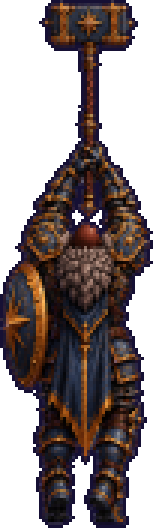
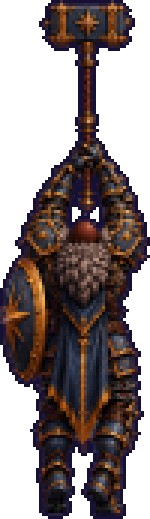
v234: escala das poses do Tanque
Claude-Session: https://claude.ai/code/session_01YFC38PcyDKAfPNhJ7r1cKG

diff --git a/sw.js b/sw.js
@@ -1,4 +1,4 @@
-const CACHE='bd1-rpg-v233';
+const CACHE='bd1-rpg-v234';
 const ASSETS=['./','./index.html','./game.html','./lobby.js','./bag_panel2.png','./shop_sign.png','./bag_button.png','./menu_meta.js','./menu_assassin.png','./menu_mage.png','./menu_knight.png','./menu_tank.png','./menu_elem.png','./menu_elemdef.png', './icon_chip_flame.png','./ui_cs_blue.png','./ui_cs_purple.png','./ui_cs_grey.png','./ui_cs_green.png','./ui_cs_red.png','./ui_cs_gold.png','./ui_chip_blue.png','./icon_chip_hourglass.png','./icon_chip_hourglass_red.png', './icon_chip_sword.png', './icon_chip_demon.png', './icon_chip_normal.png', './icon_chip_elem.png', './menu_target.png','./ui_box.png','./ui_chip.png','./ui_chip_hi.png','./ui_chip_red.png','./tp_mage.png','./tp_knight.png','./tp_tank.png','./tp_assassin.png','./lobby.css','./select_plate.webp','./tip_frame.png','./enter_panel.png','./enter_btn.png','./enter_btn_on.png','./enter_btn_off.png','./pick_btn_on.png','./pick_btn_off.png','./char_mage.webp','./char_knight.webp','./char_tank.webp','./char_assassin.webp','./panel_mage.webp','./panel_knight.webp','./panel_tank.webp','./panel_assassin.webp','./style.css','./app.js','./anim.js','./mage.js','./cleric.js','./tank.js','./knight.js','./boss.js','./boss/meta.json','./boss/B_1.png','./boss/B_2.png','./boss/B_3.png','./boss/B_4.png','./boss/B_5.png','./boss/B_6.png','./boss/B_7.png','./boss/B_8.png','./boss/B_9.png','./boss/B_10.png','./boss/B_11.png','./boss/B_12.png','./boss/goblin.png','./fxsoft.js','./ambient.js','./paper.js','./fonts/openc.woff2','./fonts/opencl.woff2','./fonts/opend.woff2','./fonts/pixelify-sans-latin-500-normal.woff2','./fonts/pixelify-sans-latin-700-normal.woff2','./knight/K1_1.png','./knight/K1_10.png','./knight/K1_11.png','./knight/K1_13.png','./knight/K1_14.png','./knight/K1_15.png','./knight/K1_19.png','./knight/K1_2.png','./knight/K1_20.png','./knight/K1_21.png','./knight/K1_22.png','./knight/K1_23.png','./knight/K1_24.png','./knight/K1_25.png','./knight/K1_26.png','./knight/K1_27.png','./knight/K1_28.png','./knight/K1_29.png','./knight/K1_30.png','./knight/K1_31.png','./knight/K1_32.png','./knight/K1_35.png','./knight/K1_37.png','./knight/K1_4.png','./knight/K1_41.png','./knight/K1_42.png','./knight/K1_44.png','./knight/K1_45.png','./knight/K1_46.png','./knight/K1_49.png','./knight/K1_5.png','./knight/K1_6.png','./knight/K1_7.png','./knight/K1_8.png','./knight/K1_9.png','./knight/K2_10.png','./knight/K2_11.png','./knight/K2_13.png','./knight/K2_14.png','./knight/K2_15.png','./knight/K2_16.png','./knight/K2_17.png','./knight/K2_18.png','./knight/K2_19.png','./knight/K2_2.png','./knight/K2_20.png','./knight/K2_21.png','./knight/K2_22.png','./knight/K2_23.png','./knight/K2_24.png','./knight/K2_25.png','./knight/K2_26.png','./knight/K2_28.png','./knight/K2_29.png','./knight/K2_3.png','./knight/K2_30.png','./knight/K2_32.png','./knight/K2_33.png','./knight/K2_34.png','./knight/K2_35.png','./knight/K2_37.png','./knight/K2_38.png','./knight/K2_39.png','./knight/K2_4.png','./knight/K2_41.png','./knight/K2_42.png','./knight/K2_43.png','./knight/K2_44.png','./knight/K2_45.png','./knight/K2_46.png','./knight/K2_5.png','./knight/K2_6.png','./knight/K2_7.png','./knight/K2_8.png','./knight/K2_9.png','./knight/K3_1.png','./knight/K3_10.png','./knight/K3_11.png','./knight/K3_12.png','./knight/K3_13.png','./knight/K3_14.png','./knight/K3_15.png','./knight/K3_16.png','./knight/K3_17.png','./knight/K3_18.png','./knight/K3_2.png','./knight/K3_20.png','./knight/K3_21.png','./knight/K3_22.png','./knight/K3_23.png','./knight/K3_24.png','./knight/K3_25.png','./knight/K3_26.png','./knight/K3_27.png','./knight/K3_28.png','./knight/K3_29.png','./knight/K3_3.png','./knight/K3_30.png','./knight/K3_31.png','./knight/K3_32.png','./knight/K3_33.png','./knight/K3_34.png','./knight/K3_35.png','./knight/K3_36.png','./knight/K3_37.png','./knight/K3_38.png','./knight/K3_39.png','./knight/K3_4.png','./knight/K3_40.png','./knight/K3_41.png','./knight/K3_42.png','./knight/K3_43.png','./knight/K3_44.png','./knight/K3_45.png','./knight/K3_46.png','./knight/K3_47.png','./knight/K3_48.png','./knight/K3_5.png','./knight/K3_6.png','./knight/K3_7.png','./knight/K3_8.png','./knight/K3_9.png','./knight/fx_ice.png','./knight/fx_rocksA.png','./knight/fx_rock1.png','./knight/fx_rock2.png','./knight/fx_rock3.png','./knight/fx_rock4.png','./knight/fx_slash.png','./knight/meta.json','./clr/at1.png','./clr/at2.png','./clr/at3.png','./clr/bg1.png','./clr/bg2.png','./clr/bg3.png','./clr/bg4.png','./clr/bp1.png','./clr/bp2.png','./clr/bp3.png','./clr/br1.png','./clr/br2.png','./clr/br3.png','./clr/br4.png','./clr/br5.png','./clr/br6.png','./clr/bt1.png','./clr/bt2.png','./clr/bt3.png','./clr/bt4.png','./clr/d1.png','./clr/d2.png','./clr/d3.png','./clr/d4.png','./clr/dg1.png','./clr/dg2.png','./clr/dg3.png','./clr/dn1.png','./clr/dn2.png','./clr/dn3.png','./clr/ds1.png','./clr/ex1.png','./clr/fx_aura.png','./clr/fx_burst.png','./clr/fx_cross1.png','./clr/fx_lotus.png','./clr/fx_pillar.png','./clr/fx_pillar2.png','./clr/fx_ring1.png','./clr/fx_ring2.png','./clr/fx_ring3.png','./clr/fx_star1.png','./clr/fx_star2.png','./clr/fx_star3.png','./clr/fx_star4.png','./clr/fx_streak1.png','./clr/fx_streak2.png','./clr/fx_streak3.png','./clr/fx_sunstar.png','./clr/hat1.png','./clr/hat2.png','./clr/idle1.png','./clr/meta.json','./clr/pr1.png','./clr/pr2.png','./clr/stf.png','./clr/ult1.png','./clr/ult2.png','./clr/v1.png','./clr/v2.png','./mage3/air.png','./mage4/air.png','./mage4/atk1.png','./mage4/atk2.png','./mage4/atk3.png','./mage4/bh1.png','./mage4/bh2.png','./mage4/castdef.png','./mage4/defair.png','./mage4/defearth.png','./mage4/deffire.png','./mage4/defmana.png','./mage4/defwater.png','./mage4/dodge1.png','./mage4/dodge2.png','./mage4/dodge3.png','./mage4/dodge4.png','./mage4/dodge5.png','./mage4/dodge6.png','./mage4/down.png','./mage4/earth.png','./mage4/fall.png','./mage4/fire.png','./mage4/fx_air_burst.png','./mage4/fx_air_swirl.png','./mage4/fx_bh_big.png','./mage4/fx_bh_big2.png','./mage4/fx_bh_seed.png','./mage4/fx_bh_small.png','./mage4/fx_bh_smoke.png','./mage4/fx_bh_spikes.png','./mage4/fx_bolt.png','./mage4/fx_comet.png','./mage4/fx_cross.png','./mage4/fx_crystal.png','./mage4/fx_earth_spikes.png','./mage4/fx_fire_burst.png','./mage4/fx_fire_fall.png','./mage4/fx_mana_aura.png','./mage4/fx_orb_blue.png','./mage4/fx_orb_orange.png','./mage4/fx_orb_red.png','./mage4/fx_orbb.png','./mage4/fx_ring_floor.png','./mage4/fx_rock.png','./mage4/fx_rocks.png','./mage4/fx_sh_air.png','./mage4/fx_sh_earth.png','./mage4/fx_sh_fire.png','./mage4/fx_sh_mana.png','./mage4/fx_sh_water.png','./mage4/fx_star_big.png','./mage4/fx_star_small.png','./mage4/fx_water_burst.png','./mage4/fx_water_pillar.png','./mage4/fx_whirl.png','./mage4/glance.png','./mage4/hip.png','./mage4/hurt1.png','./mage4/hurt2.png','./mage4/idle1.png','./mage4/idle2.png','./mage4/idle3.png','./mage4/idle4.png','./mage4/kneel.png','./mage4/look.png','./mage4/meta.json','./mage4/open.png','./mage4/potion.png','./mage4/raise.png','./mage4/reach.png','./mage4/scroll.png','./mage4/side.png','./mage4/skirt.png','./mage4/spin1.png','./mage4/spinwide.png','./mage4/stars.png','./mage4/swingf.png','./mage4/swingl.png','./mage4/swingr.png','./mage4/water.png','./mage4/wave.png','./mage3/atk1.png','./mage3/atk2.png','./mage3/atk3.png','./mage3/bh1.png','./mage3/bh2.png','./mage3/castdef.png','./mage3/defair.png','./mage3/defearth.png','./mage3/deffire.png','./mage3/defmana.png','./mage3/defwater.png','./mage3/dodge1.png','./mage3/dodge2.png','./mage3/dodge3.png','./mage3/dodge4.png','./mage3/earth.png','./mage3/fire.png','./mage3/fx_air_swirl.png','./mage3/fx_bh_big.png','./mage3/fx_bh_big2.png','./mage3/fx_bh_small.png','./mage3/fx_bh_spikes.png','./mage3/fx_bolt.png','./mage3/fx_comet.png','./mage3/fx_cross.png','./mage3/fx_crystal.png','./mage3/fx_earth_spikes.png','./mage3/fx_fire_fall.png','./mage3/fx_mana_aura.png','./mage3/fx_orb_blue.png','./mage3/fx_orb_orange.png','./mage3/fx_orb_red.png','./mage3/fx_orbb.png','./mage3/fx_ring_floor.png','./mage3/fx_rock.png','./mage3/fx_rocks.png','./mage3/fx_star_big.png','./mage3/fx_star_small.png','./mage3/fx_water_pillar.png','./mage3/fx_whirl.png','./mage3/idle1.png','./mage3/idle2.png','./mage3/idle3.png','./mage3/idle4.png','./mage3/meta.json','./mage3/spin1.png','./mage3/spinwide.png','./mage3/stars.png','./mage3/swingf.png','./mage3/swingl.png','./mage3/swingr.png','./mage3/water.png','./anim/manifest.json','./spr_mage.webp','./spr_knight.webp','./spr_tank.webp','./spr_assassin.webp','./spr_boss.webp','./skel/skel_face.png','./intro.js','./map.html','./fog.css','./fog.js','./fog/top.webp','./fog/bot.webp','./map.css','./map.js','./quotes.js','./hud.js','./map/ui_title.webp','./map/ui_compass.webp','./map/ui_legend.webp','./map/ui_quote.webp','./mapfx.js','./map/water.png','./map/base.webp','./map/meta.json','./map/ic_done.webp','./map/ic_next.webp','./map/ic_lock.webp','./map/halo0_blue.webp','./map/halo1_green.webp','./map/gray0.webp','./map/gray1.webp','./map/gray2.webp','./map/gray3.webp','./map/gray4.webp','./map/gray5.webp','./intro/throne_close.webp','./intro/throne_far.webp','./game_clean.png','./game_nohud.png','./hud_mage.png','./hud_knight.png','./hud_tank.png','./hud_assassin.png','./question_panel.png','./icon_coin.png','./manifest.webmanifest','./potion_hp.png','./potion_hp_s.png','./potion_hp_l.png','./potion_mana_s.png','./potion_mana_l.png','./potion_mana.png','./btn_wood.png','./btn_dark.png','./btn_gold.png','./editor.html','./perguntas.json','./chest_f0.png','./chest_f1.png','./chest_f2.png','./chest_f3.png','./item_amulet.png','./item_blade.png','./item_dice.png','./item_elixir.png','./item_helm.png','./item_herb.png','./item_hourglass.png','./item_iron_shield.png','./item_lens.png','./item_lightbomb.png','./item_luckycoin.png','./item_phoenix.png','./item_powder.png','./cover.html','./cover.css','./cover.js','./rebuild.js','./cover_bg.webp','./item_scroll.png','./item_watch_s.png','./item_watch_l.png','./item_smokebomb.png','./item_tonic.png','./tank4/a1.png','./tank4/a2.png','./tank4/a3.png','./tank4/a4.png','./tank4/a5.png','./tank4/a6.png','./tank4/dn.png','./tank4/e1.png','./tank4/e2.png','./tank4/e3.png','./tank4/e4.png','./tank4/e5.png','./tank4/e6.png','./tank4/fl.png','./tank4/fx_tbur.png','./tank4/fx_tcrk.png','./tank4/fx_tdust.png','./tank4/fx_trocks.png','./tank4/fx_tsh1.png','./tank4/fx_tsh2.png','./tank4/fx_tsh3.png','./tank4/fx_tsh4.png','./tank4/fx_tsh5.png','./tank4/fx_tsh6.png','./tank4/fx_tspk.png','./tank4/fx_tstar.png','./tank4/fx_wb1.png','./tank4/fx_wb2.png','./tank4/fx_wb3.png','./tank4/fx_wg1.png','./tank4/fx_wg2.png','./tank4/fx_wg3.png','./tank4/h1.png','./tank4/h2.png','./tank4/h3.png','./tank4/h4.png','./tank4/h5.png','./tank4/h6.png','./tank4/i1.png','./tank4/i2.png','./tank4/i3.png','./tank4/i4.png','./tank4/i5.png','./tank4/i6.png','./tank4/k1.png','./tank4/k2.png','./tank4/meta.json','./tank4/s1.png','./tank4/s2.png','./tank4/s3.png','./tank4/s4.png','./tank4/s6.png','./tank4/u1.png','./tank4/u2.png','./tank4/v1.png','./tank4/v2.png','./tank4/v3.png','./tank4/v4.png','./tank4/v5.png','./tank4/v6.png','./tank/a_bub.png','./tank/a_cr.png','./tank/a_dust.png','./tank/a_hh.png','./tank/a_i1.png','./tank/a_i2.png','./tank/a_lo.png','./tank/a_rd.png','./tank/a_rl1.png','./tank/a_rl2.png','./tank/a_s1.png','./tank/a_s2.png','./tank/a_sw.png','./tank/a_swl.png','./tank/d_a1.png','./tank/d_a2.png','./tank/d_a3.png','./tank/d_a4.png','./tank/d_e1.png','./tank/d_e2.png','./tank/d_e3.png','./tank/d_e4.png','./tank/d_f1.png','./tank/d_f2.png','./tank/d_f3.png','./tank/d_h1.png','./tank/d_h2.png','./tank/d_h3.png','./tank/d_h4.png','./tank/d_i1.png','./tank/d_i2.png','./tank/d_i3.png','./tank/d_m1.png','./tank/d_m2.png','./tank/d_m3.png','./tank/d_m4.png','./tank/d_p1.png','./tank/d_p3.png','./tank/d_u1.png','./tank/d_u2.png','./tank/fx_bring.png','./tank/fx_bspike.png','./tank/fx_earth.png','./tank/fx_rockburst.png','./tank/meta.json','./tank/n1.png','./tank/n2.png','./tank/n3.png','./tank/p1.png','./tank/tA.png','./tank/tB.png','./tank/tC.png','./tank/v1.png','./tank/v2.png','./tank/v3.png','./tank/v4.png'];
 // Tudo em cache (abre instantâneo, até offline). Em segundo plano o SW confere a rede (requisição condicional, barata);
 // se algum arquivo mudou, atualiza o cache e avisa a página, que recarrega sozinha (menu) ou mostra o aviso (jogo).

diff --git a/cover.js b/cover.js
@@ -93,7 +93,7 @@ requestAnimationFrame(frame);
 document.addEventListener('visibilitychange', () => { if (document.hidden) run = false; else if (!run) { run = true; last = performance.now(); requestAnimationFrame(frame); } });
 
 // ---------- atualizar (versão do jogo) ----------
-{ const V = 'v233', b = $('#upd'); b.textContent = '↻ ATUALIZAR · ' + V;
+{ const V = 'v234', b = $('#upd'); b.textContent = '↻ ATUALIZAR · ' + V;
   b.onclick = async () => { b.disabled = true; b.textContent = 'ATUALIZANDO…';
     try { if ('serviceWorker' in navigator) { const rs = await navigator.serviceWorker.getRegistrations(); await Promise.all(rs.map(r => r.unregister())); }
       if (window.caches) { const ks = await caches.keys(); await Promise.all(ks.map(k => caches.delete(k))); }

diff --git a/tools/cut_tank4.py b/tools/cut_tank4.py
@@ -19,7 +19,7 @@ POSES = {
  'v1':('T7',1,0),'v2':('T7_p2',0,0),'v3':('T7',3,0),'v4':('T7',4,0),'v5':('T7',5,0),'v6':('T7',6,1),
 }
 # poses sem cabeca visivel (ou muito deformada): escala por altura relativa ao idle1 (ajuste manual)
-MULT = {'i5':.8,'h3':1.55,'v2':1.15}
+MULT = {'i5':.88,'v2':1.12}
 NOHEAD = {'e3':1.0,'fl':1.0,'dn':1.0}
 
 def components(path):
@@ -65,7 +65,7 @@ def pose_crop(name):
     return c
 
 # diametro da cabeca (px da folha original) por folha: mediana das poses onde a cabeca foi detectada; T4/T6 pelo tamanho medio das poses (relacao cabeca/area das outras folhas); imagens unicas medidas na propria imagem
-HS = {'T1':40.2,'T2':29.1,'T3':29.7,'T4':32.1,'T5':29.9,'T6':28.2,'T7':30.75,'T1_p5':70.9,'T7_p2':86.9,'T3_p3':72.0}
+HS = {'T1':40.2,'T2':29.1,'T3':29.7,'T4':32.1,'T5':29.9,'T6':28.2,'T7':30.75,'T1_p5':70.9,'T7_p2':86.9,'T3_p3':47.4}
 cache = {}; crops = {n: pose_crop(n) for n in POSES}
 HREF = HS['T1']; x = crops['i1']; ys0 = np.where((x.min(2) < 235).any(1))[0]
 F0 = BODY_H / (ys0.max() - ys0.min() + 1)                          # idle1 com a altura do corpo do tanque antigo

diff --git a/README.md b/README.md
@@ -478,3 +478,4 @@ Ele abre selecao, mapa e batalha em 7 formatos de celular + tablet e confere que
 - v231: Maga: removida a pose invertida (tired), poses pixelizadas em grade de 3 px com borda (tools/pixel_maga4.py), rastro da bola de fogo virado para a maga, kneel usada no dano.
 - v232: Maga: projeteis translucidos com camadas giratorias, rastro que se desfaz e fagulhas em espiral (ataque de mana sem bloco de imagem); mana ambiente, brilho no cajado, circulo magico e carga de mana enquanto espera a leitura; impactos mais leves.
 - v233: Tanque refeito (tank4/): 41 poses de costas da nova arte (idles, ataques, super pesado, escudo, esquiva, dano/queda, vitoria/provocacao), pixelizadas e normalizadas pela cabeca (tools/cut_tank4.py); efeitos novos: ondas de choque, pedras/espinhos/poeira/rachadura/estrela e barreiras de protecao (tools/cut_tank4_fx.py). tank/ antigo mantido ate a aprovacao.
+- v234: Tanque: escala das poses h3 (martelo no alto), i5 e v2 corrigida pelo tamanho da cabeca.
